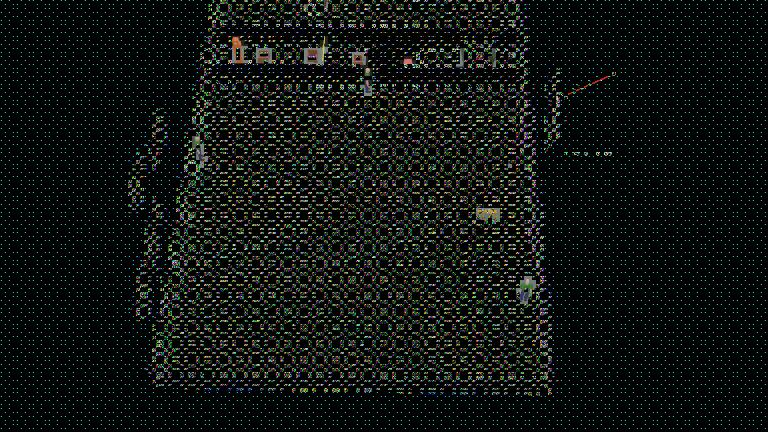
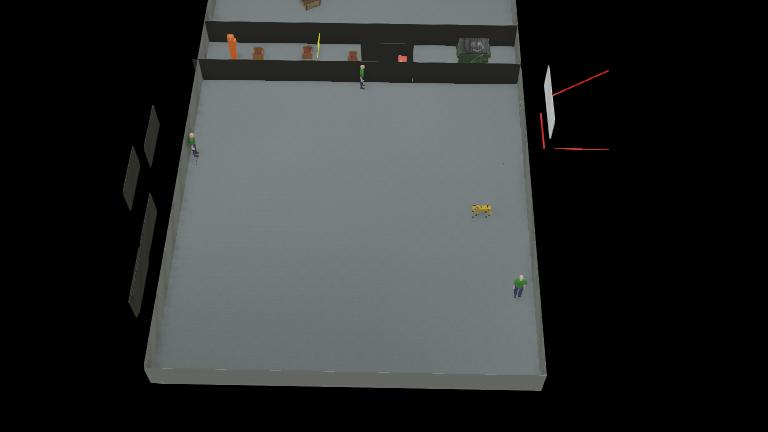
added more rooms

diff --git a/launch/spot_launch.py b/launch/spot_launch.py
@@ -101,7 +101,7 @@ def generate_launch_description():
         
         #world=PathJoinSubstitution([package_dir, "worlds", "spot_test_big_room_one_static_obstacale.wbt"])
         #world=PathJoinSubstitution([package_dir, "worlds", "spot_test_big_room_one_dynamic_obstacale.wbt"])
-        world=PathJoinSubstitution([package_dir, "worlds", "spot_test_big_room_multiple_dynamic_obstacale_2 .wbt"])
+        world=PathJoinSubstitution([package_dir, "worlds", "spot_test_big_room_multiple_dynamic_obstacale_5 .wbt"])
     )
     ros2_supervisor = Ros2SupervisorLauncher()
 
